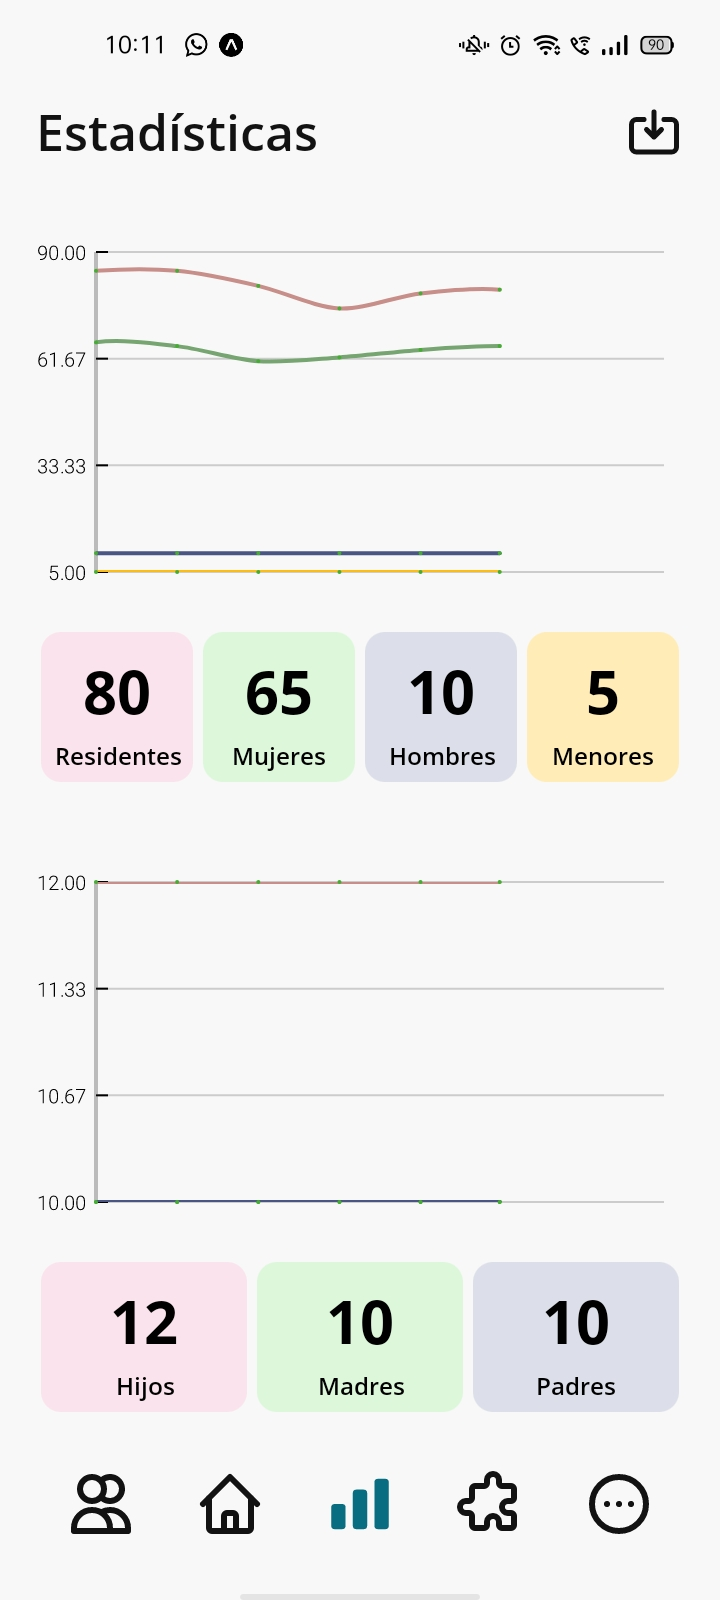
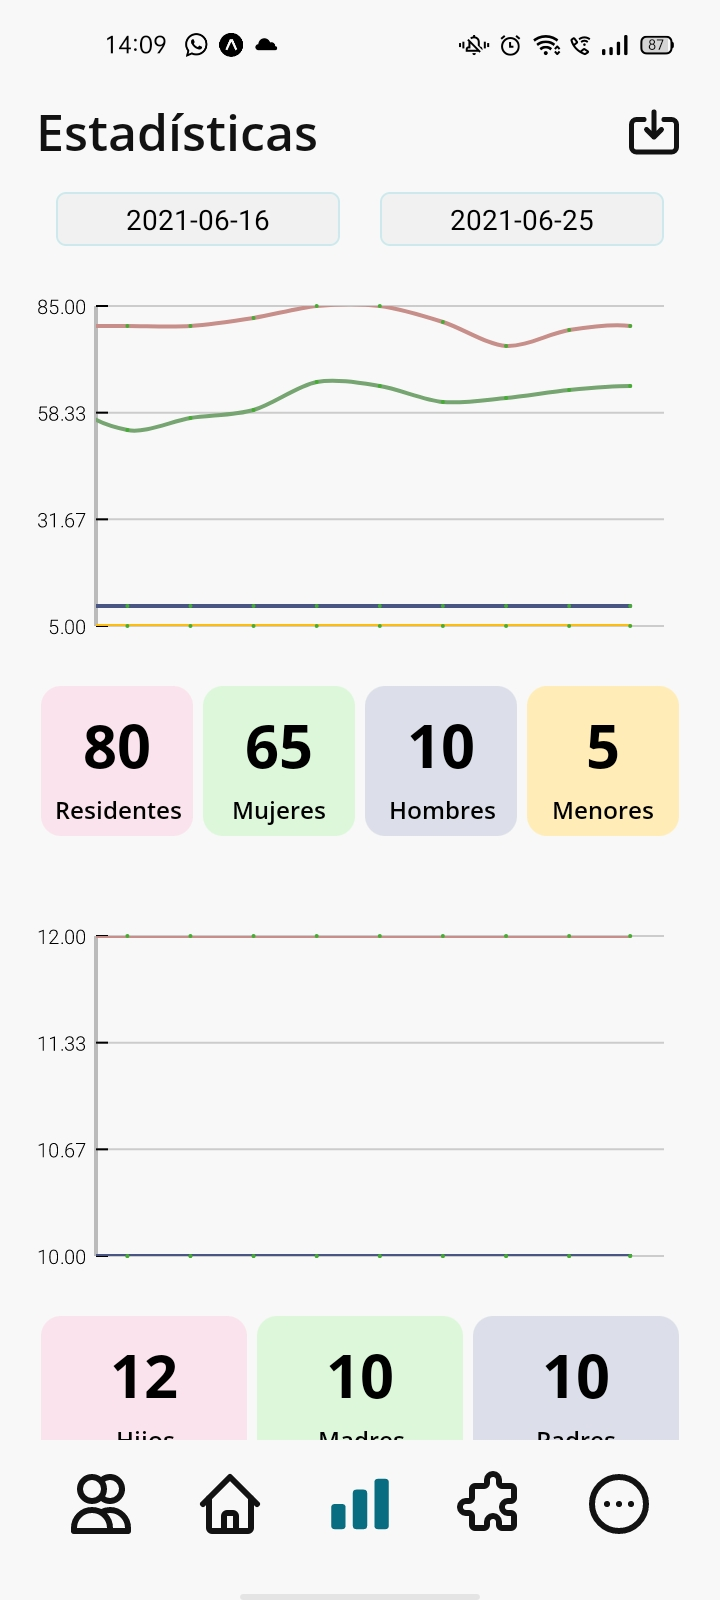
manual de usuario: especifica estadísticas

diff --git a/secciones/casos_de_uso.tex b/secciones/casos_de_uso.tex
@@ -156,7 +156,7 @@ El sistema estará planteado de forma que solo el usuario administrador pueda ge
 
 El diagrama de casos de uso que representa estas acciones viene representado en la Figura \ref{fig:cu_usuarios}. En esta se puede ver como el actor referente a los usuarios administradores gestionan a los usuarios, mientras que todos los demás solo tienen acceso a métodos de login y logout. 
 
-Las dependecias de los casos de uso ``Editar usuario'' y ``Eliminar usuario'' sobre ``Consultar la información de un usuario'' vienen principalmente dadas debido a que será necesario conocer la inforamción del usuario, tanto para editar esta como para eliminarlo. 
+Las dependencias de los casos de uso ``Editar usuario'' y ``Eliminar usuario'' sobre ``Consultar la información de un usuario'' vienen principalmente dadas debido a que será necesario conocer la inforamción del usuario, tanto para editar esta como para eliminarlo. 
 
 \begin{figure}[hp!]
     \centering
@@ -241,7 +241,7 @@ En la gestión de todo lo referente a las personas, habrá mas operaciones. En e
 
 Aquí no solo entran los datos directos de las personas, si no también la gestión de sus documentos, citas y su estado actual, si es de alta o de baja. El diagrama de casos de uso referente a esta sección está representado en la Figura \ref{fig:cu_personas}. 
 
-Las dependecias principales entre los casos de uso son parecidas a la de los casos de uso de gestión de usuarios. Para realizar cualquier accion de modificación sobre una persona, esta acción dependerá de conocer la información de esta, contemplado en el caso de uso ``Consultar datos de personas''. El consultar los datos de las personas, podrá conllevar consultar y acceder a los documentos de esta misma, lo cual no será estrictamente necesario. Por su parte de igual forma, para eliminar un documento será necesario conocer estos documentos, lo que provoca la relacion entre ``Añadir o eliminar documentos de personas'' y ``Consultar documentos de personas''. 
+Las dependencias principales entre los casos de uso son parecidas a la de los casos de uso de gestión de usuarios. Para realizar cualquier acción de modificación sobre una persona, esta acción dependerá de conocer la información de esta, contemplado en el caso de uso ``Consultar datos de personas''. El consultar los datos de las personas, podrá conllevar consultar y acceder a los documentos de esta misma, lo cual no será estrictamente necesario. Por su parte de igual forma, para eliminar un documento será necesario conocer estos documentos, lo que provoca la relacion entre ``Añadir o eliminar documentos de personas'' y ``Consultar documentos de personas''. 
 
 \begin{figure}[h!]
     \centering
@@ -410,7 +410,7 @@ En la gestión de alojamientos, ocurre como con la gestión de personas, partici
 
 Dentro de los casos de usos mostrados en el diagrama de casos de uso de la Figura \ref{fig:cu_alojamientos}, los más difíciles de entender pueden ser los referidos a la modificación de una habitación. Con el objetivo de explicar un poco mejor el funcionamiento de ambos, se han realizado la descripción correspondiente de cada uno de ellos en las tablas \ref{fig:cu_alojamientos_modificar} y \ref{fig:cu_alojamientos_modificarresidentes}. 
 
-En este caso, al modificar una casa, será estrictamente necesario conocer la información de esta. Por otra parte, la modificación de la información de la casas no tiene porque suponer la modificacion de residentes o habitaciones, lo que provoca las relaciones de extensión entre ``Modificar casas'' y ``Eliminar habitación'', ``Modificar habitación'' y ``Añadir habitación''. El caso de uso ``Modificar habitación de residentes'' se especifica de forma exclusiva, buscando concretar que será la única modificación posible para un usuario general.
+En este caso, al modificar una casa, será estrictamente necesario conocer la información de esta. Por otra parte, la modificación de la información de la casas no tiene porque suponer la modificación de residentes o habitaciones, lo que provoca las relaciones de extensión entre ``Modificar casas'' y ``Eliminar habitación'', ``Modificar habitación'' y ``Añadir habitación''. El caso de uso ``Modificar habitación de residentes'' se especifica de forma exclusiva, buscando concretar que será la única modificación posible para un usuario general.
 
 \begin{figure}[h!]
     \centering

diff --git a/capitulos/08_manual_de_uso.tex b/capitulos/08_manual_de_uso.tex
@@ -76,7 +76,9 @@ Si en la lista de alojamientos pulsamos sobre uno de ellos, nos llevará a una p
 
 \section{Estadísticas}
 
-Para la visualización de estadísticas tenemos la tercera sección de la aplicación (Figura \ref{fig:man-4}, derecha). En esta pantalla tendremos en la parte superior un botón con la función de exportar todos los datos de la aplicación. Para visualizar las estadísticas seleccionaremos un periodo de tiempo en la componente superior. Las estadísticas se mostrará en grupos de 4 para facilitar la visualización de los gráficos. Si pulsamos sobre alguno de los bloques, la gráfica pasará a mostrar ese único dato y ocultará los demás.
+Para la visualización de estadísticas tenemos la tercera sección de la aplicación (Figura \ref{fig:man-4}, derecha). Las estadísticas serán mostradas en grupos de 4 o 3 acompañados con una gráfica que mostrará estas en función del tiempo. Primero se mostrará un bloque con el número de residentes, mujeres, hombres y menores que hay actualmente en la fundación. De igual forma, se mostrarán en el segundo bloque los hijos, madres y padres. En el tercer bloque, se mostraran los voluntario y socios de la fundación, junto con el número de residentes empadronados y con todos la documentación en regla. Por último se aportará la información referente a la ocupación de los alojamientos, mostrando las plazas libres que hay, plazas totales de la fundación y las casas con alguna plaza libre.
+
+Además, la parte superior tendrá un botón que permitirá exportar todos los datos de la aplicación. Para visualizar las estadísticas en un periodo de tiempo concreto se puede seleccionar este en la componente superior. En cada grupo de estadísticas correspondiente a una gráfica se podrá pulsar sobre alguno de los bloques, lo que provocará que la gráfica pase a mostrar ese único dato ocultando los demás.
 
 \section{Gestión de actividades}
 
